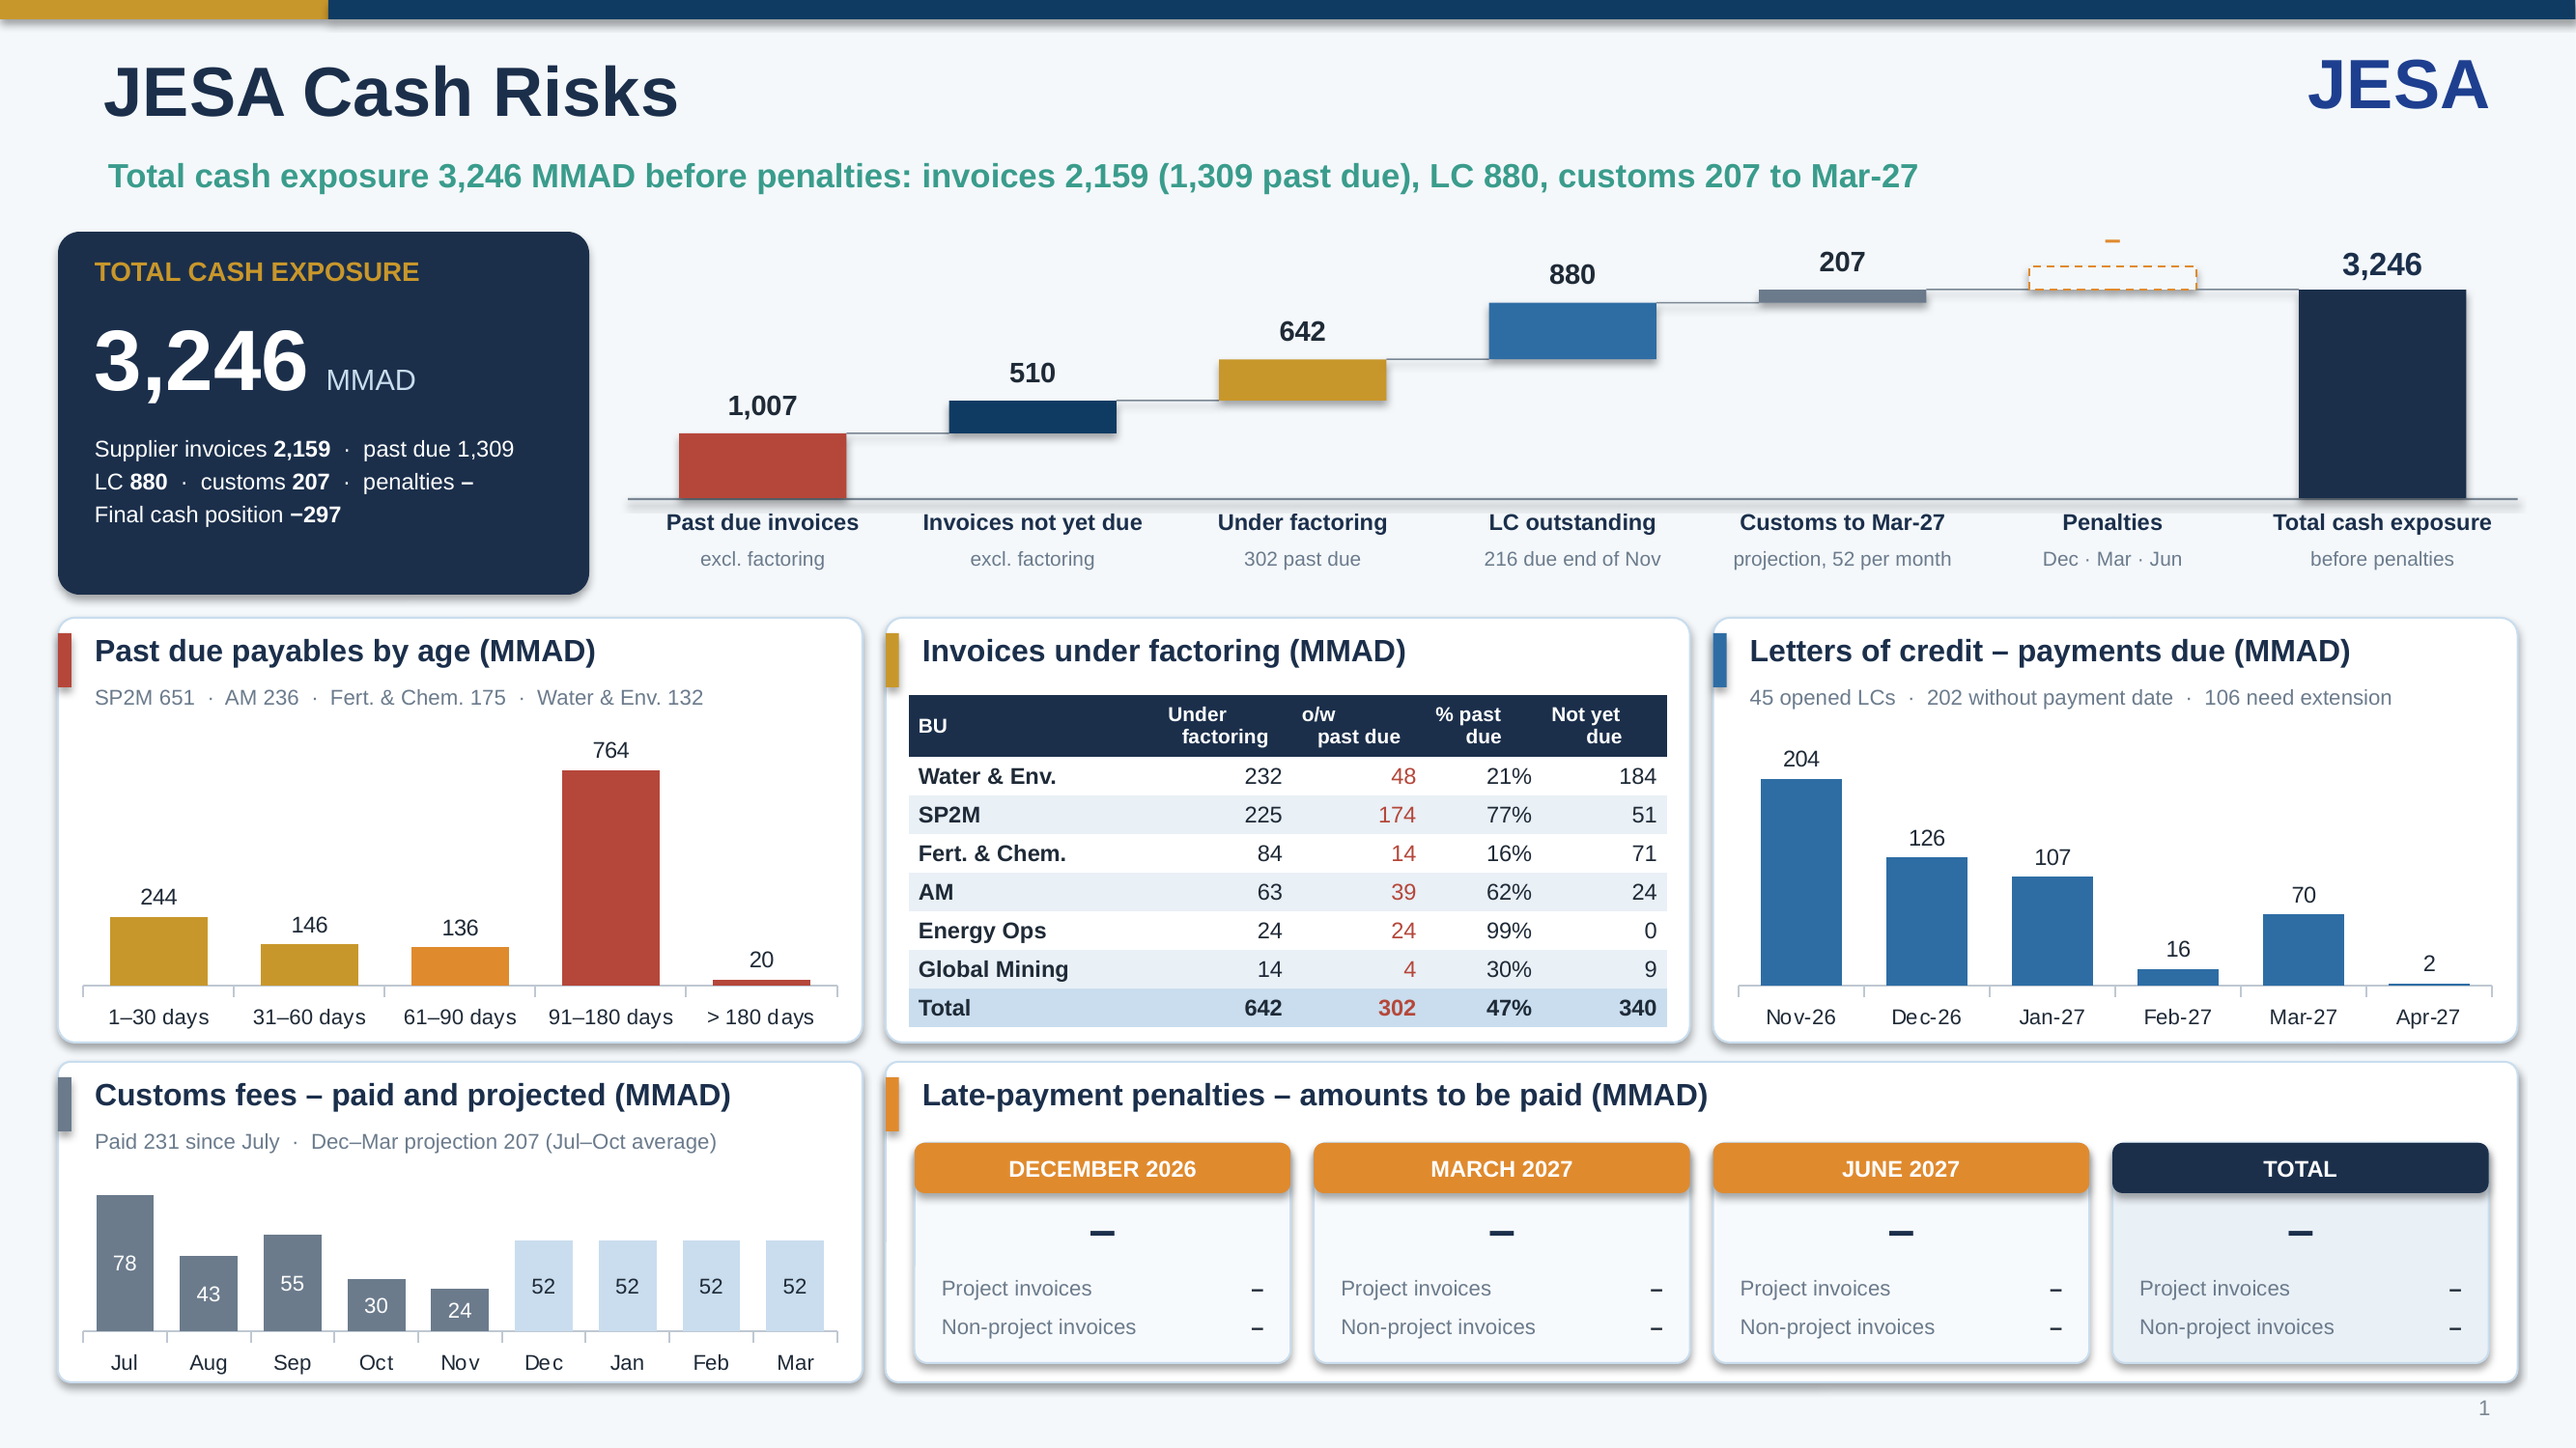
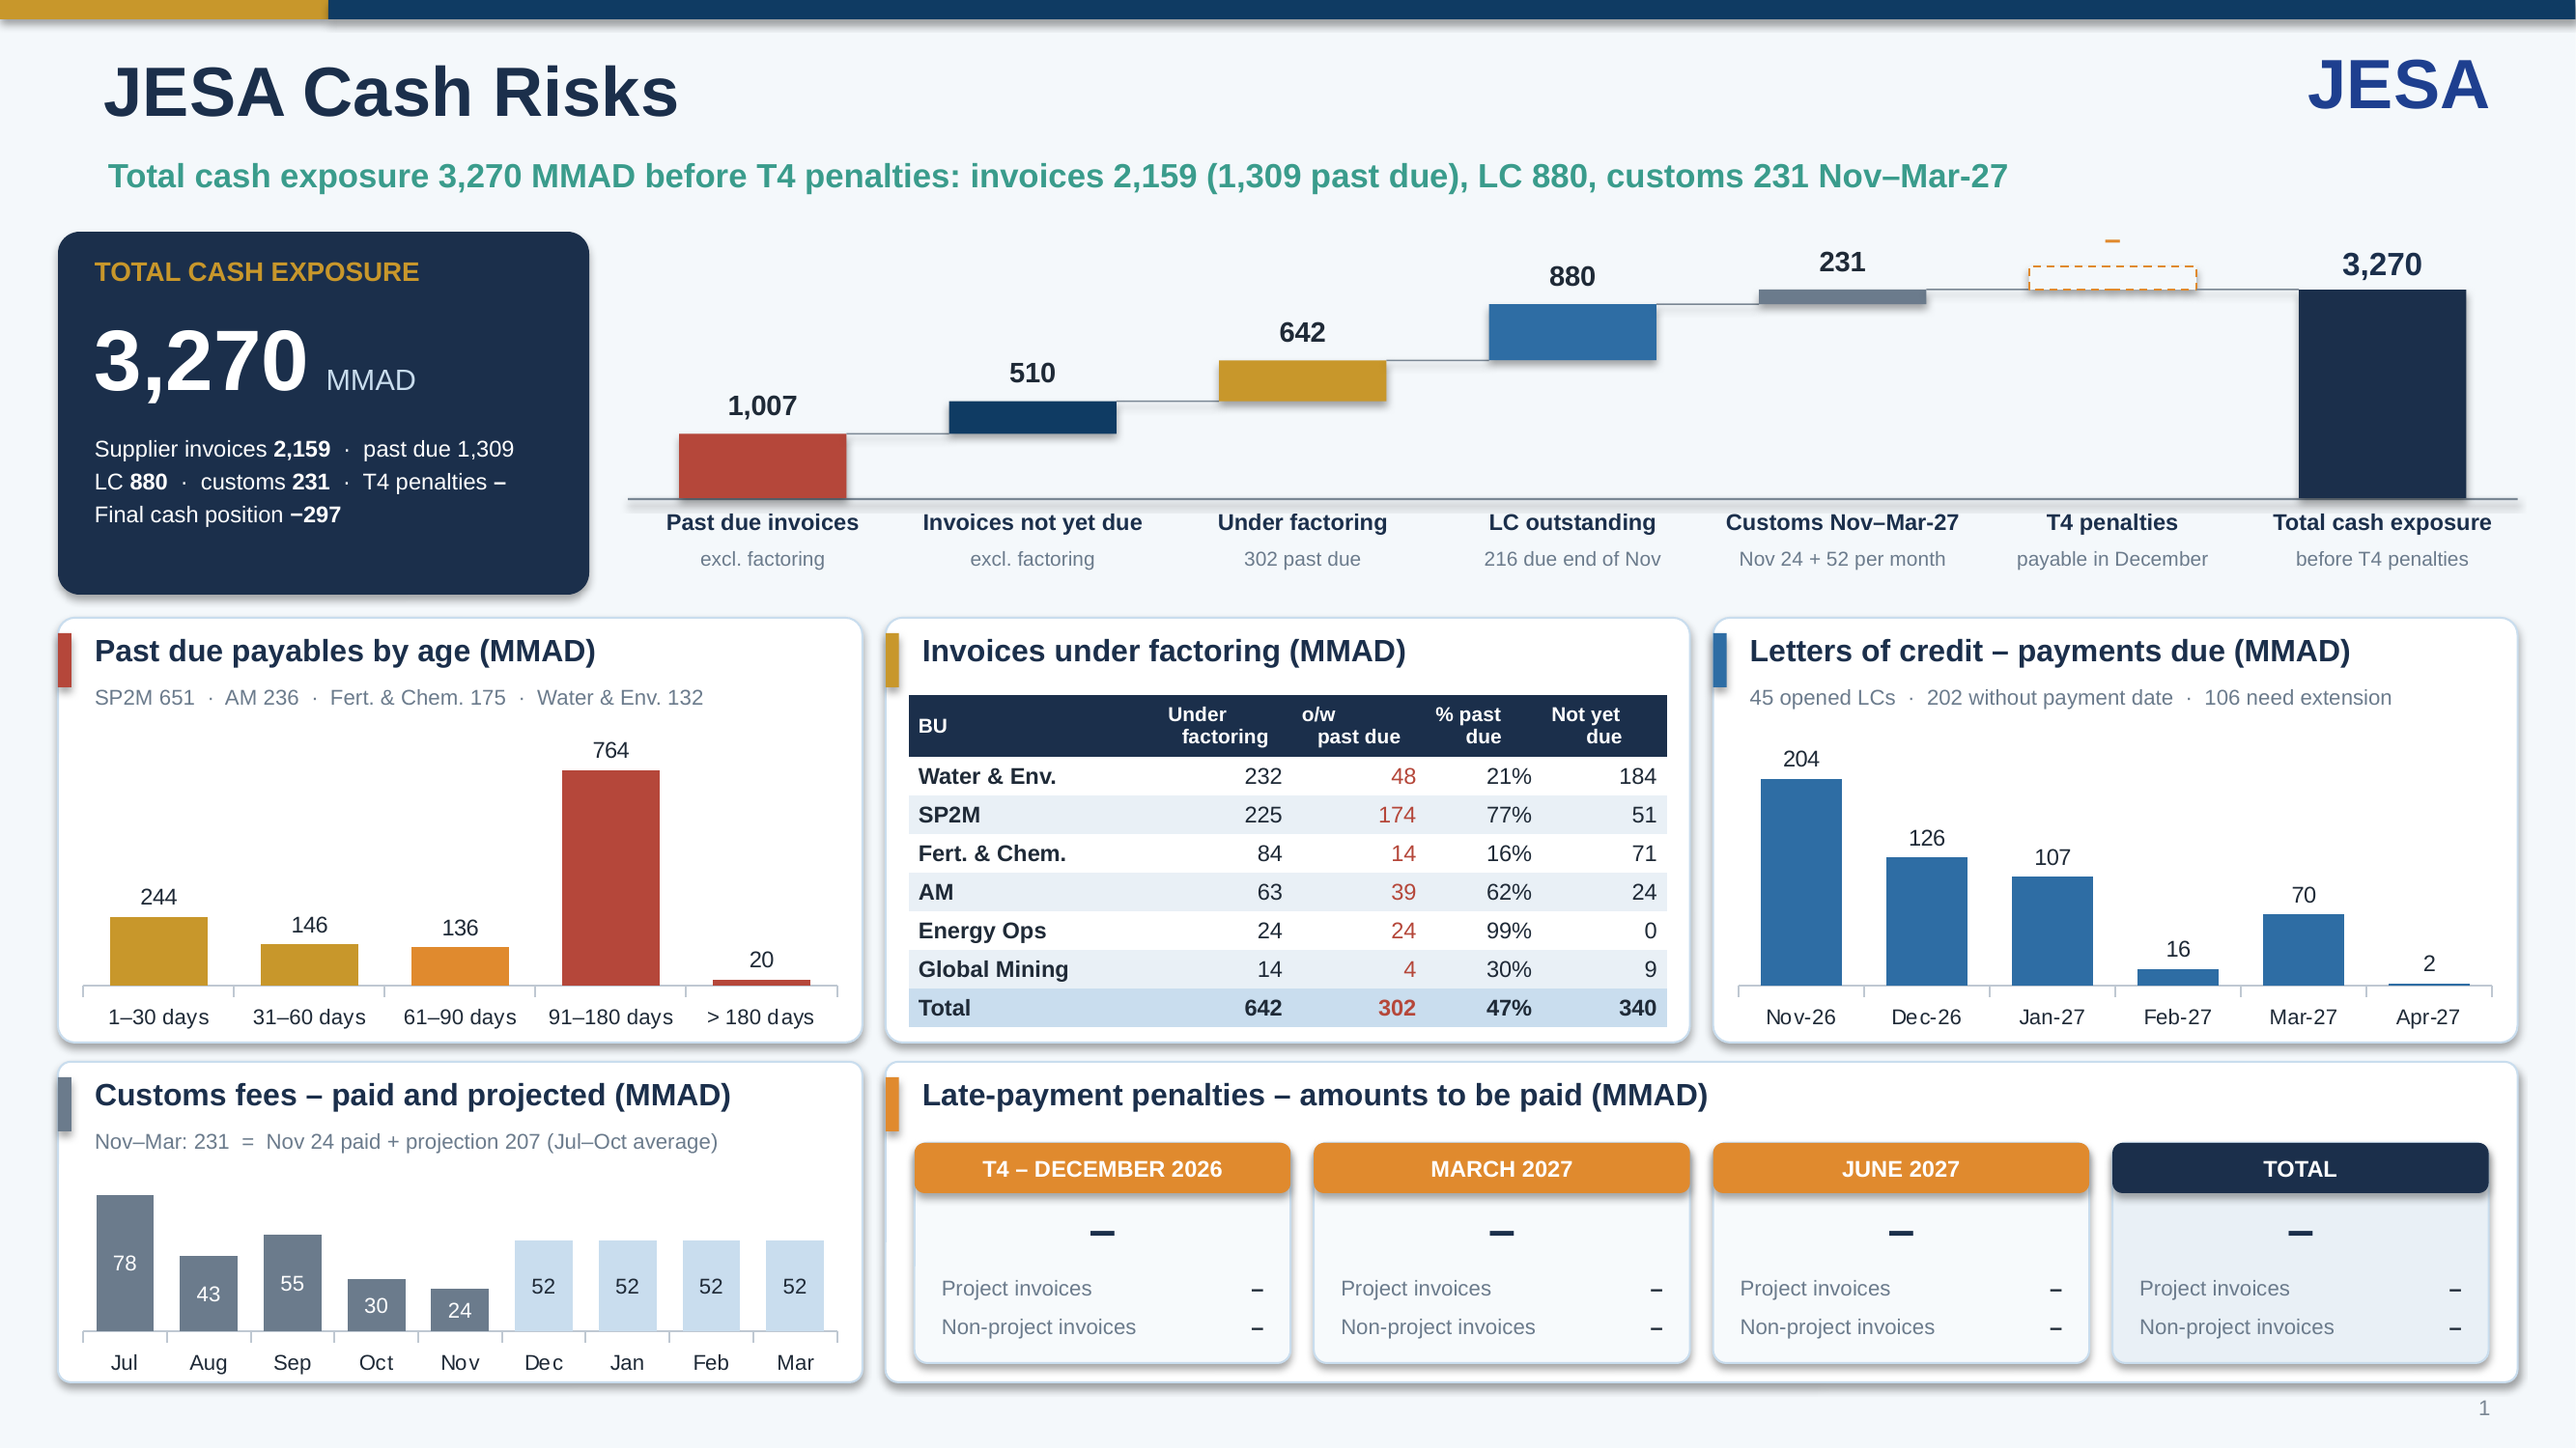
Cash risks slide: customs exposure November to March, T4 penalties only in the total
Claude-Session: https://claude.ai/code/session_01GRGYp2p9fdXmxQMcLgyM1e

diff --git a/weekly-ar-cash-deck/build_deck.py b/weekly-ar-cash-deck/build_deck.py
@@ -1488,23 +1488,31 @@ def build(data, meta, out):
         while _mn[_k] != "Mar" and len(proj_m) < 11: _k = (_k + 1) % 12; proj_m.append(_mn[_k])
         _ad = dt.date.fromisoformat(str(meta["as_of_date"])[:10]); mar_lab = f"Mar-{(_ad.year + (1 if _ad.month > 3 else 0)) % 100:02d}"
         cus_proj = cus_avg * len(proj_m)
+        cus_expo = cus_m[-1][1] + cus_proj   # exposure: month in progress (paid to date) + projection to March; earlier months are left out
+        dues = []; yy, mm = _ad.year, _ad.month   # penalties payment dates: next December, March and June
+        while len(dues) < 3:
+            mm += 1
+            if mm > 12: mm, yy = 1, yy + 1
+            if mm in (12, 3, 6): dues.append(f"{yy}-{mm:02d}")
         # penalties (blank until the penalties file is received)
         ps = {str(r["due"])[:7]: r for r in data.get("AP_PENALTIES", [])}
-        pen_tot = sum((r.get("project") or 0) + (r.get("non_project") or 0) for r in ps.values()) if ps else None
-        expo = r_inv + lc_all + cus_proj + (pen_tot or 0)
-        s = D.slide("JESA Cash Risks", f"Total cash exposure {f0(expo)} MMAD" + ("" if pen_tot is not None else " before penalties") + f": invoices {f0(r_inv)} ({f0(r_pd)} past due), LC {f0(lc_all)}, customs {f0(cus_proj)} to {mar_lab}")
+        # only the T4 balance (first payment date) counts in the exposure; the later dates are shown in the penalties section
+        pen_tot = ((ps[dues[0]].get("project") or 0) + (ps[dues[0]].get("non_project") or 0)) if dues[0] in ps else None
+        pen_lab = "T4 penalties"; pen_when = dt.date.fromisoformat(dues[0] + "-01").strftime("%B")
+        expo = r_inv + lc_all + cus_expo + (pen_tot or 0)
+        s = D.slide("JESA Cash Risks", f"Total cash exposure {f0(expo)} MMAD" + ("" if pen_tot is not None else " before T4 penalties") + f": invoices {f0(r_inv)} ({f0(r_pd)} past due), LC {f0(lc_all)}, customs {f0(cus_expo)} {com}–{mar_lab}")
         # ---- top: total exposure and its build-up by category
         ty, th = 1.2, 1.88
         rect(s, 0.3, ty, 2.75, th, NAVY, shape=MSO_SHAPE.ROUNDED_RECTANGLE, radius=0.06)
         tb(s, 0.45, ty + 0.1, 2.5, 0.26, "TOTAL CASH EXPOSURE", size=10, bold=True, color=GOLD)
         tb(s, 0.45, ty + 0.36, 2.5, 0.6, [[(f0(expo), {"size": 32, "bold": True, "color": WHITE}), ("  MMAD", {"size": 11, "color": LBLUE})]])
         tb(s, 0.45, ty + 1.0, 2.5, 0.8, [[("Supplier invoices ", {}), (f0(r_inv), {"bold": True}), (f"  ·  past due {f0(r_pd)}", {})],
-                                           [("LC ", {}), (f0(lc_all), {"bold": True}), ("  ·  customs ", {}), (f0(cus_proj), {"bold": True}), ("  ·  penalties ", {}), ((f1(pen_tot) if pen_tot is not None else "–"), {"bold": True})],
+                                           [("LC ", {}), (f0(lc_all), {"bold": True}), ("  ·  customs ", {}), (f0(cus_expo), {"bold": True}), ("  ·  T4 penalties ", {}), ((f1(pen_tot) if pen_tot is not None else "–"), {"bold": True})],
                                            [("Final cash position ", {}), (fd(net_all), {"bold": True})]], size=8.5, color=WHITE, line_spacing=1.2)
         wcat = [("Past due invoices", "excl. factoring", r_pd - r_fpd, RED), ("Invoices not yet due", "excl. factoring", (r_inv - r_pd) - (r_f - r_fpd), NAVY2),
                 ("Under factoring", f"{f0(r_fpd)} past due", r_f, GOLD), ("LC outstanding", f"{f0(appr_lc)} due end of {com}", lc_all, BLUE),
-                (f"Customs to {mar_lab}", f"projection, {f0(cus_avg)} per month", cus_proj, SLATE), ("Penalties", "Dec · Mar · Jun", pen_tot, ORANGE),
-                ("Total cash exposure", ("" if pen_tot is not None else "before penalties"), expo, NAVY)]
+                (f"Customs {com}–{mar_lab}", f"{com} {f0(cus_m[-1][1])} + {f0(cus_avg)} per month", cus_expo, SLATE), (pen_lab, f"payable in {pen_when}", pen_tot, ORANGE),
+                ("Total cash exposure", ("" if pen_tot is not None else "before T4 penalties"), expo, NAVY)]
         wx, ww = 3.25, SW - 0.3 - 3.25; n_ = len(wcat); slot = ww / n_; bwid = slot * 0.62; base_y = ty + th - 0.5; top_y = ty + 0.3; sc = (base_y - top_y) / (expo or 1)
         rect(s, wx, base_y, ww, 0.012, GREY); run = 0.0
         for i, (lab, sub, v, col) in enumerate(wcat):
@@ -1542,18 +1550,13 @@ def build(data, meta, out):
         panel(x3, y1, pw, h1, "Letters of credit – payments due (MMAD)", f"{n_lc} opened LCs  ·  {f0(lc_all - lc_sched)} without payment date" + (f"  ·  {f0(lc_ext)} need extension" if lc_ext > 0.5 else ""), BLUE)
         bar_chart(s, x3 + 0.05, y1 + 0.56, pw - 0.1, h1 - 0.6, [dt.date.fromisoformat(str(m)[:7] + "-01").strftime("%b-%y") for m in lm], [("LC payments", [mt[m] for m in lm])], [BLUE], legend=False, gap=55, cat_size=8, label_size=8.5, label_pos=XL_LABEL_POSITION.OUTSIDE_END)
         # ---- 4. customs fees: paid and projected
-        panel(x1, y2, pw, h2, "Customs fees – paid and projected (MMAD)", f"Paid {f0(cus_tot)} since July  ·  {proj_m[0]}–{proj_m[-1]} projection {f0(cus_proj)} (Jul–{cam} average)" if proj_m else f"Paid since July {f0(cus_tot)}", SLATE)
+        panel(x1, y2, pw, h2, "Customs fees – paid and projected (MMAD)", f"{com}–{proj_m[-1]}: {f0(cus_expo)}  =  {com} {f0(cus_m[-1][1])} paid + projection {f0(cus_proj)} (Jul–{cam} average)" if proj_m else f"Paid since July {f0(cus_tot)}", SLATE)
         ccats = [m for m, _ in cus_m] + proj_m
         ch = bar_chart(s, x1 + 0.05, y2 + 0.56, pw - 0.1, h2 - 0.58, ccats, [("Paid", [v for _, v in cus_m] + [0] * len(proj_m)), ("Projection", [0] * len(cus_m) + [cus_avg] * len(proj_m))], [SLATE, LBLUE], stacked=True, legend=False, gap=45, cat_size=8, label_size=8, label_colors=[WHITE, DARK])
         # ---- 5. late-payment penalties by payment date (filled from the penalties file; project and non-project invoices)
         px, pww = x2, 2 * pw + 0.12
         panel(px, y2, pww, h2, "Late-payment penalties – amounts to be paid (MMAD)", None, ORANGE)
-        dues = []; yy, mm = _ad.year, _ad.month
-        while len(dues) < 3:
-            mm += 1
-            if mm > 12: mm, yy = 1, yy + 1
-            if mm in (12, 3, 6): dues.append(f"{yy}-{mm:02d}")
-        boxes = [(dt.date.fromisoformat(d_ + "-01").strftime("%B %Y"), ps.get(d_)) for d_ in dues] + [("Total", ({"project": sum((ps[d_].get("project") or 0) for d_ in dues if d_ in ps), "non_project": sum((ps[d_].get("non_project") or 0) for d_ in dues if d_ in ps)} if ps else None))]
+        boxes = [(("T4 – " if j == 0 else "") + dt.date.fromisoformat(d_ + "-01").strftime("%B %Y"), ps.get(d_)) for j, d_ in enumerate(dues)] + [("Total", ({"project": sum((ps[d_].get("project") or 0) for d_ in dues if d_ in ps), "non_project": sum((ps[d_].get("non_project") or 0) for d_ in dues if d_ in ps)} if ps else None))]
         bw = (pww - 0.3 - 0.12 * 3) / 4; by = y2 + 0.42; bh = h2 - 0.52
         for i, (lab, r) in enumerate(boxes):
             bx = px + 0.15 + i * (bw + 0.12); tot_ = i == len(boxes) - 1

diff --git a/.claude/skills/weekly-ar-deck/SKILL.md b/.claude/skills/weekly-ar-deck/SKILL.md
@@ -217,7 +217,9 @@ The reviewer used to strip the deck by hand before sending; the builder now prod
 `build_deck.py --only risk --out output/JESA_Cash_Risks_<week>.pptx` (built by `run_week.sh`; `--with-risk` puts it in the
 deck after the LC slide, only when asked). Content:
 
-- Top: **total cash exposure** = supplier invoices + LC outstanding + customs projected to next March + penalties, with a
+- Top: **total cash exposure** = supplier invoices + LC outstanding + customs from the month in progress to next March
+  (paid to date in the month + projection; earlier months are not counted) + **T4 penalties only** (first payment date,
+  December; the March and June amounts are shown in the penalties section but stay out of the total), with a
   waterfall by category: past due invoices excl. factoring, invoices not yet due excl. factoring, invoices under
   factoring (past due part quoted), LC outstanding, customs projection, penalties, total. Factoring is carved out of the
   two invoice bars so nothing is counted twice. No KPI boxes.
@@ -225,7 +227,7 @@ deck after the LC slide, only when asked). Content:
   months; customs paid by month plus a projection to March at the average of the closed months since July (the month
   in progress is shown as paid to date and not topped up); late-payment penalties to be paid in December, March and
   June, split between project and non-project invoices.
-- The penalties boxes and the penalties bar stay blank ("–") and the total reads "before penalties" until the
+- The penalties boxes and the T4 penalties bar stay blank ("–") and the total reads "before T4 penalties" until the
   reviewer's penalties file is received; then add
   `"schedule": [{"due": "2026-12", "project": MMAD, "non_project": MMAD}, ...]` to the penalties JSON.
 
